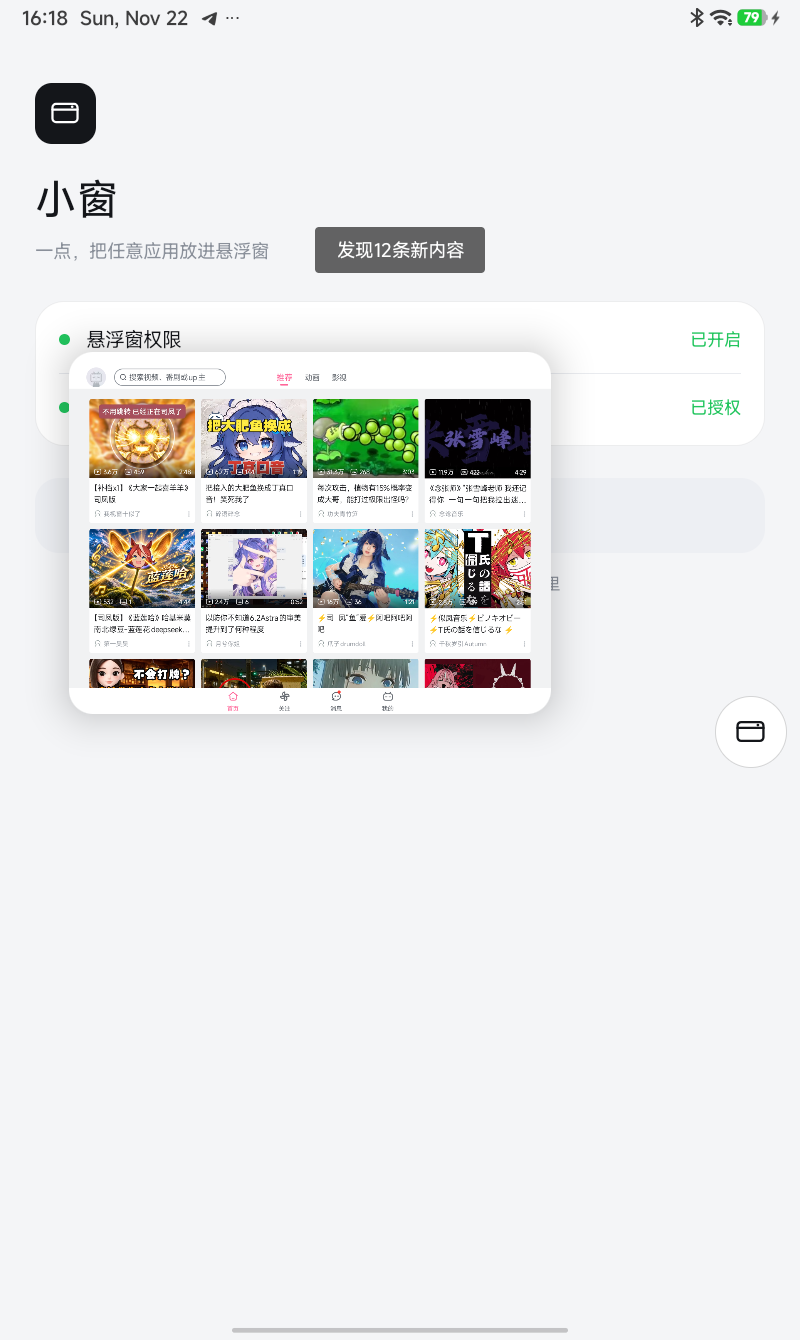
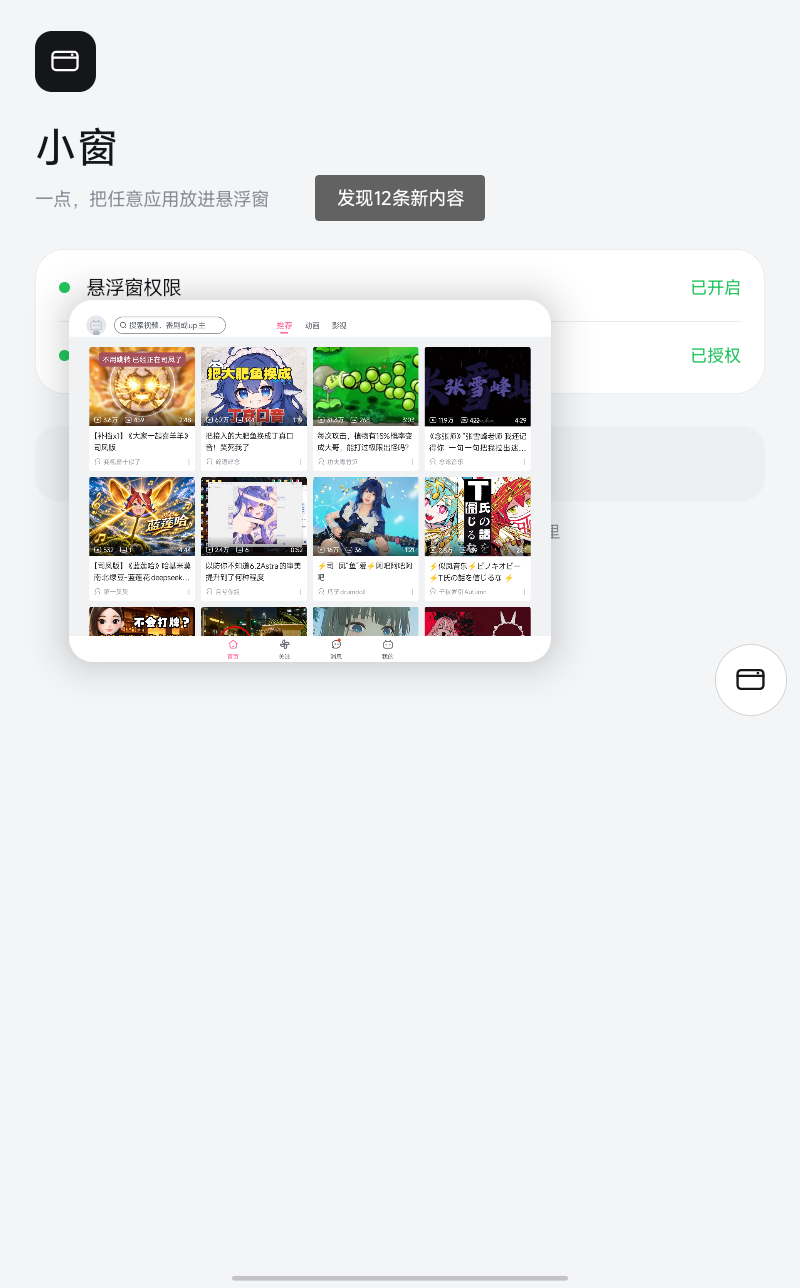
fix: skip boot autostart when root is unavailable (v1.1.1)

diff --git a/app/java/com/local/floatwin/BootReceiver.java b/app/java/com/local/floatwin/BootReceiver.java
@@ -16,15 +16,33 @@ public class BootReceiver extends BroadcastReceiver {
         if (!Settings.canDrawOverlays(context)) {
             return;
         }
-        Intent service = new Intent(context, BubbleService.class);
-        try {
-            if (Build.VERSION.SDK_INT >= 26) {
-                context.startForegroundService(service);
-            } else {
-                context.startService(service);
+        // 临时 root（KernelSU LKM 等）重启后会消失，这时不要起一个"点不开应用"的假悬浮球。
+        final PendingResult pending = goAsync();
+        final Context app = context.getApplicationContext();
+        new Thread(new Runnable() {
+            @Override
+            public void run() {
+                boolean root = false;
+                try {
+                    root = Launcher.hasRoot();
+                } catch (Throwable ignored) {
+                }
+                if (root) {
+                    try {
+                        Intent service = new Intent(app, BubbleService.class);
+                        if (Build.VERSION.SDK_INT >= 26) {
+                            app.startForegroundService(service);
+                        } else {
+                            app.startService(service);
+                        }
+                    } catch (Throwable ignored) {
+                        // background start may be restricted on some builds
+                    }
+                } else {
+                    Prefs.setBubbleOn(app, false);
+                }
+                pending.finish();
             }
-        } catch (Throwable ignored) {
-            // background start may be restricted on some builds
-        }
+        }, "floatwin-boot").start();
     }
 }

diff --git a/README.md b/README.md
@@ -1,6 +1,6 @@
 # 小窗 · FloatWin
 
-[![Build APK](https://github.com/nestchao/floatwin/actions/workflows/build.yml/badge.svg)](https://github.com/nestchao/floatwin/actions/workflows/build.yml)
+[![Build APK](https://github.com/nestchao/floatwin/actions/workflows/build.yml/badge.svg?branch=main)](https://github.com/nestchao/floatwin/actions/workflows/build.yml)
 [![Release](https://img.shields.io/github/v/release/nestchao/floatwin)](https://github.com/nestchao/floatwin/releases)
 [![License: MIT](https://img.shields.io/badge/License-MIT-blue.svg)](LICENSE)
 

diff --git a/CHANGELOG.md b/CHANGELOG.md
@@ -1,5 +1,10 @@
 # Changelog
 
+## v1.1.1
+
+- 开机自启前先检查 root：临时 root 重启后消失时，不再启动一个「点不开应用」的假悬浮球
+- 文档：截图裁掉状态栏、CI 徽章固定 main 分支
+
 ## v1.1
 
 - 新增 **root 守护进程**：MIUI「清理后台」后悬浮球自动恢复（`/data/local/tmp/.floatwin_watch.sh`）
